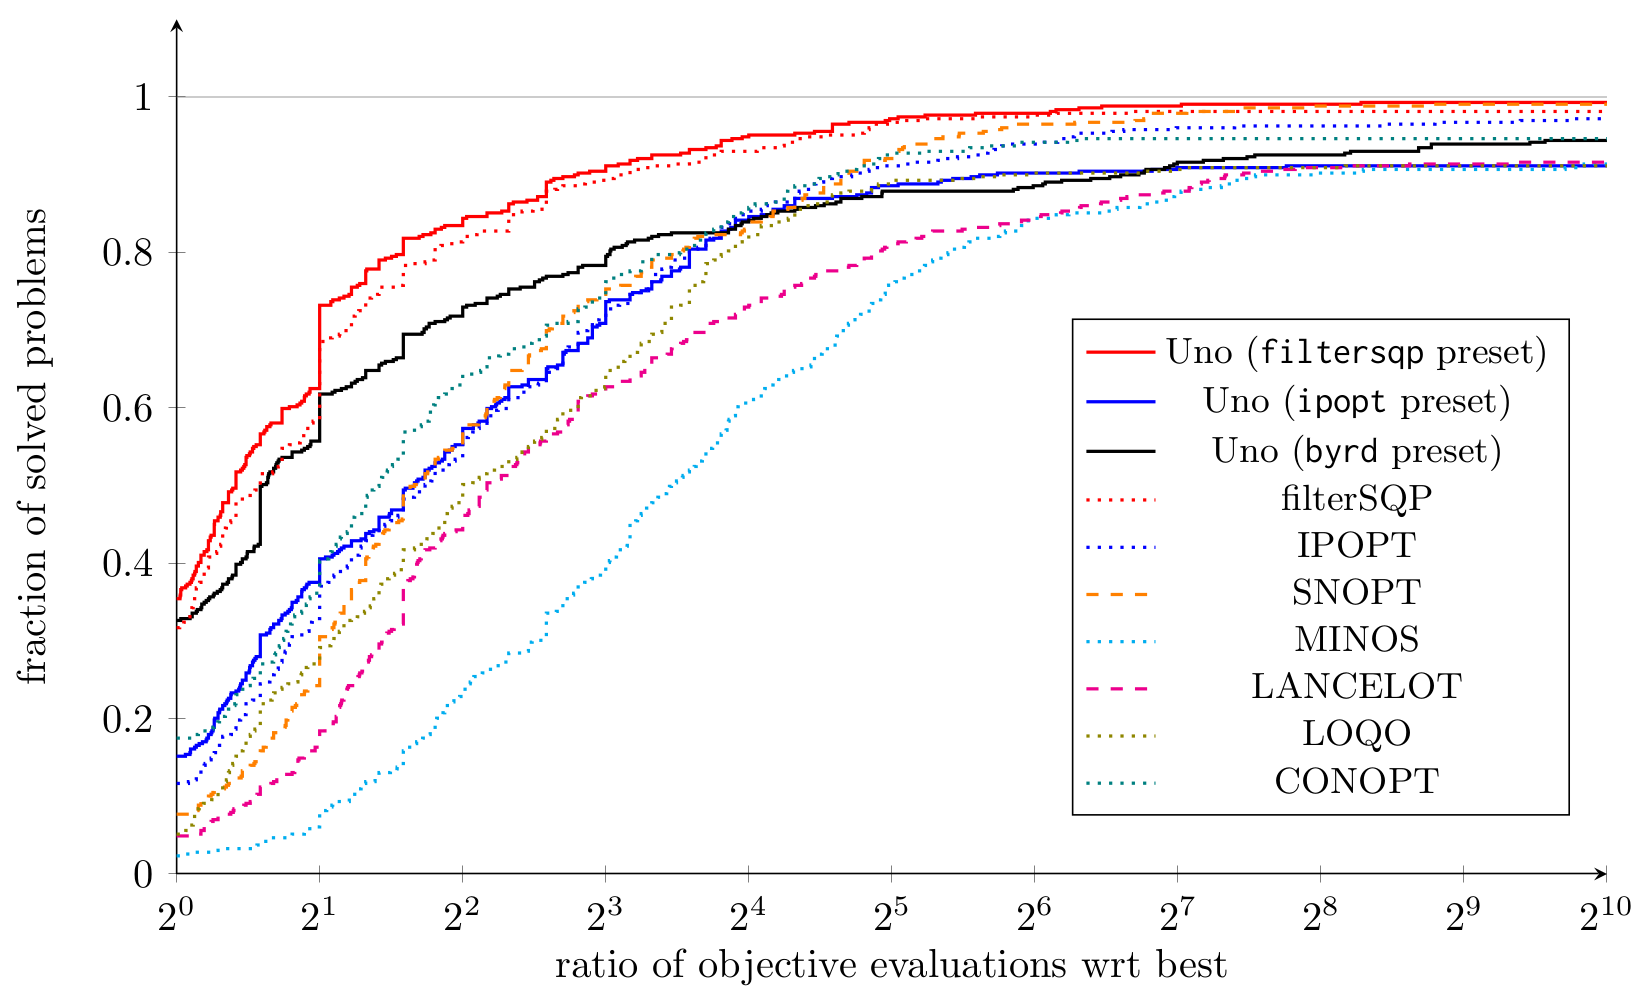
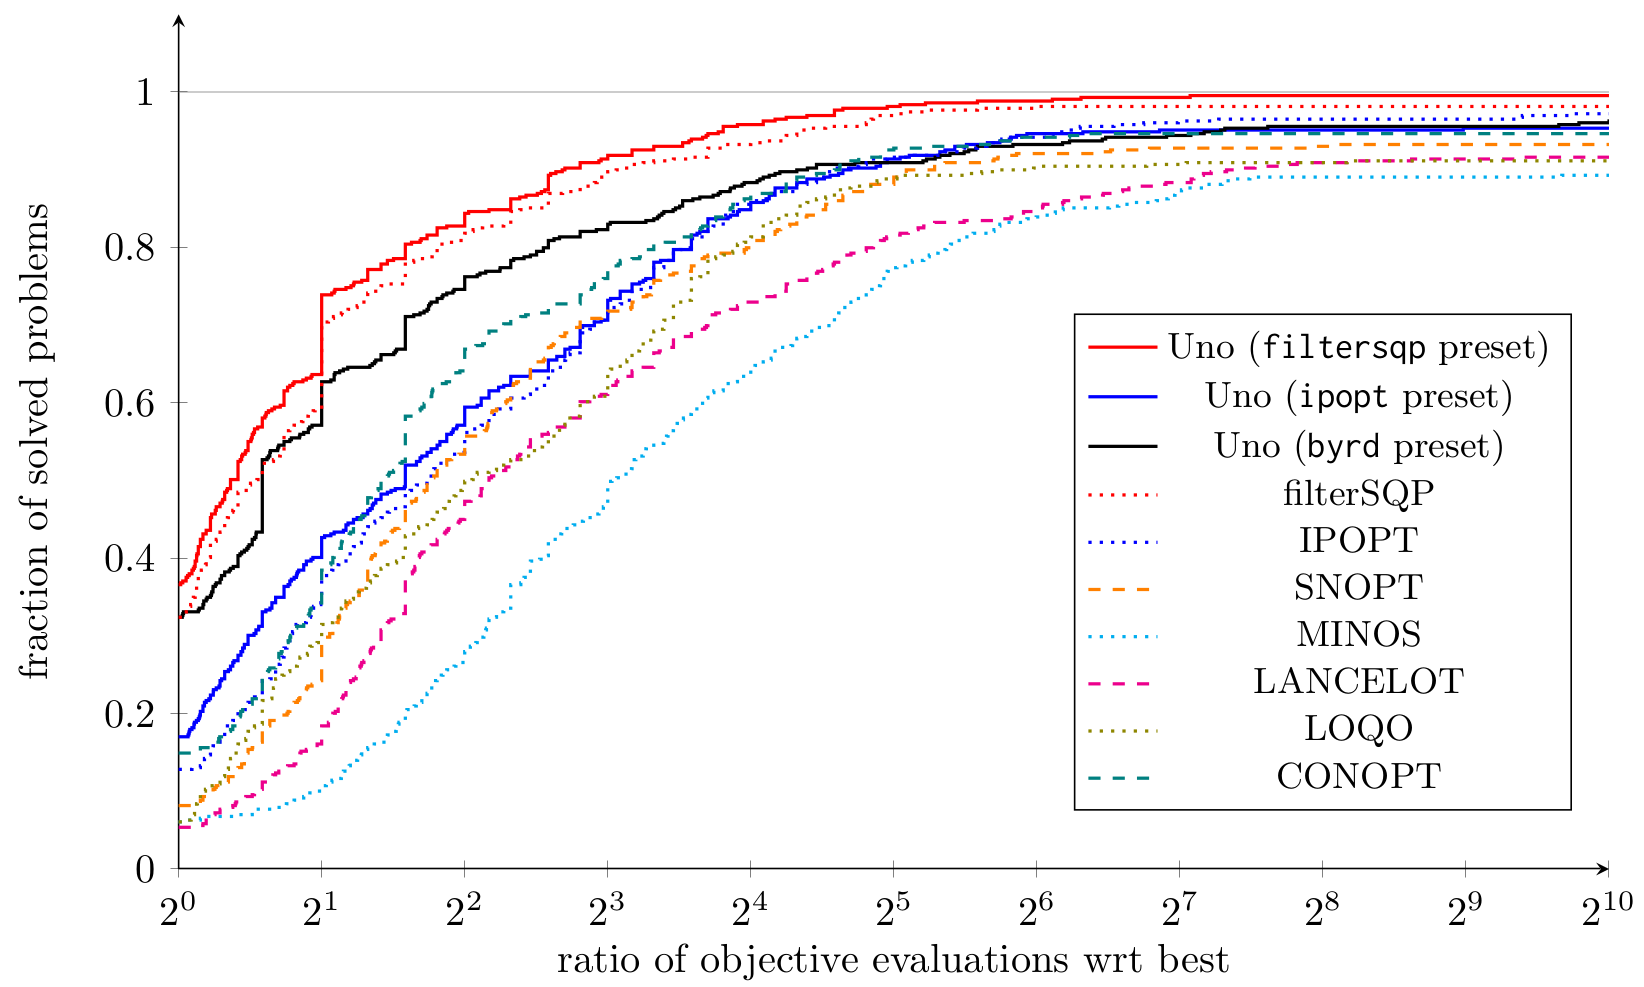
Updated performance profile

diff --git a/README.md b/README.md
@@ -35,7 +35,7 @@ Uno 1.0 implements the following strategies:
 For more details, check out my [presentation at the ICCOPT 2022 conference](https://www.researchgate.net/publication/362254109).
 This is joint work with [Sven Leyffer](https://wiki.mcs.anl.gov/leyffer/index.php/Sven_Leyffer) (Argonne National Laboratory).
 
-### Latest results (Dec 23, 2022)
+### Latest results (Jan 24, 2023)
 
 Some of Uno combinations (called presets, see below) have been tested against state-of-the-art solvers on 429 small problems of the [CUTEst benchmark](https://arnold-neumaier.at/glopt/coconut/Benchmark/Library2_new_v1.html).
 The figure below is a performance profile; it shows how many problems are solved for a given budget of function evaluations (1 time, 2 times, 4 times, ..., $2^x$ times the number of objective evaluations of the best solver for each instance).
